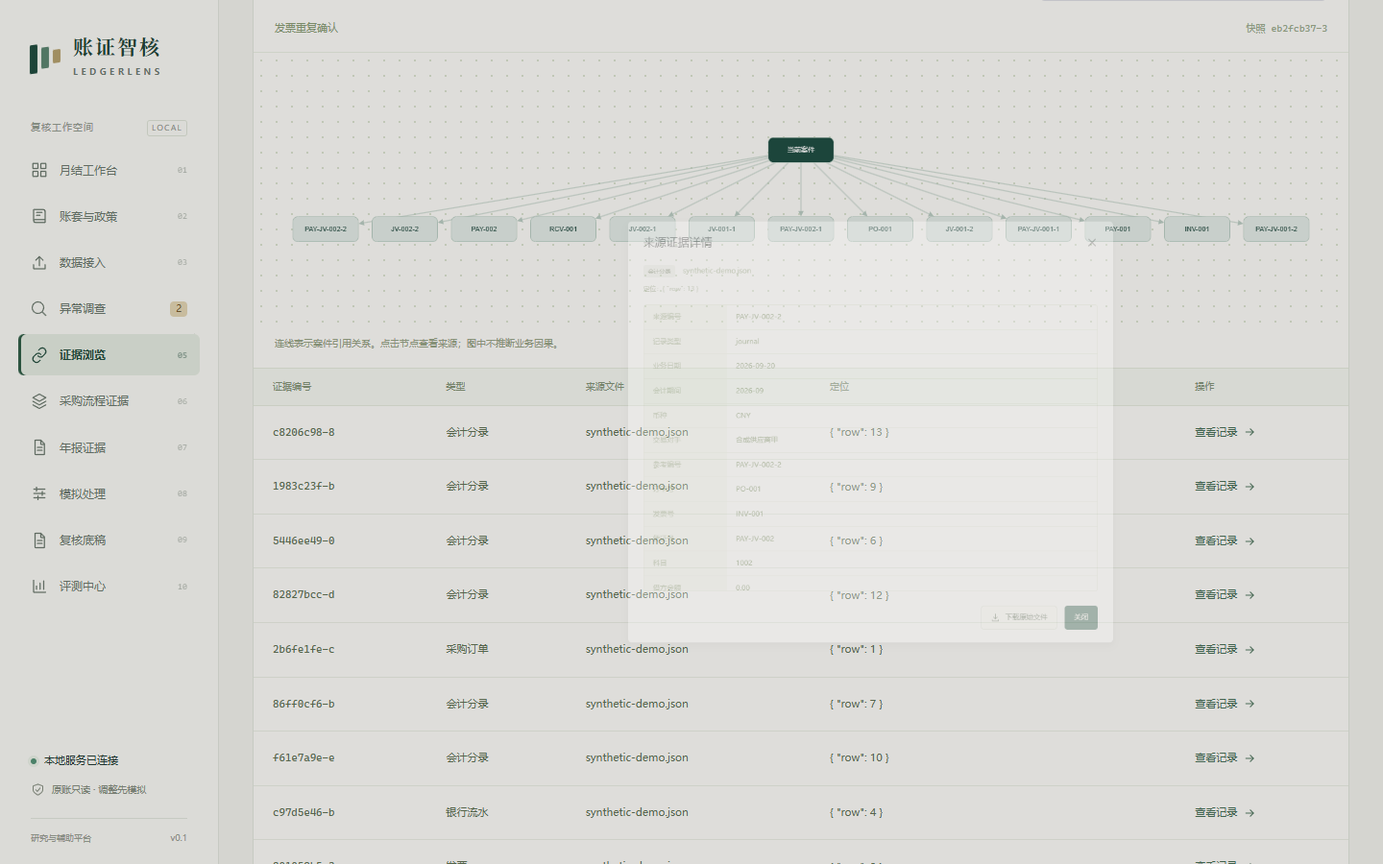
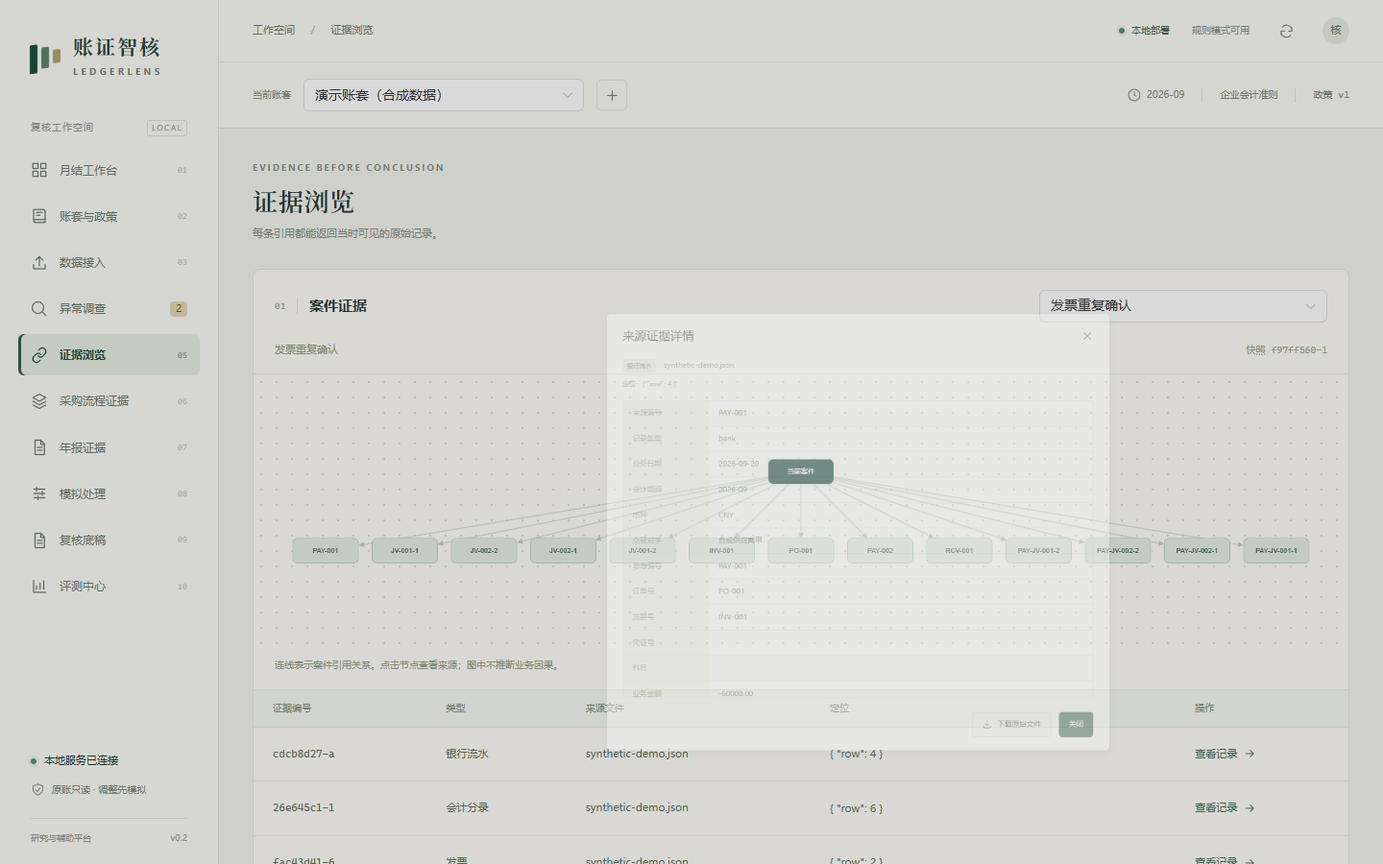
Release v0.2.0: version, demo video and screenshots, introduction and validation summary (#59)
Version 0.2.0 across Python, frontend and citation metadata; the demo recording and narration follow the closed product loop; screenshots refreshed; the introduction reads its numbers from docs/release-v0.2.0-validation.json and docs/scenario-acceptance.json, cites the official texts as checked (plan main line, software specification article 21 items 2 and 3) and separates official requirements from the project's inference; the v4 spend is corrected to about CNY 1.32; the email draft is added.

diff --git a/docs/submission/intro.template.html b/docs/submission/intro.template.html
@@ -53,9 +53,10 @@
 <section>
   <h2>1 项目概述</h2>
   <p>月结复核中，发现异常只是第一步：复核人员还要取得证据、判断原因，并证明拟议的调整不会改坏原始账簿。现有的 AI 财务工具多数直接给出结论，但结论依据了哪些资料、资料是否在当时可见、能否被第三方复核，往往说不清。</p>
-  <p>账证智核把每一次调查固定在<strong>账套、数据快照和规则版本</strong>上：确定性规则先做检查；调查只能读取当前快照中的证据；模型的建议不会自动成为业务事实；调整只进入隔离模拟并由程序逐分复算；迟到的资料会生成新快照并使旧复核失效。项目在本地即可运行，不需要模型密钥就能完成完整的规则演示。</p>
+  <p>账证智核把每一次调查固定在<strong>账套、数据快照和规则版本</strong>上：确定性规则先做检查；调查只能读取当前快照中的证据；模型的建议不会自动成为业务事实；处理草稿由案件发现确定性生成，只进入隔离模拟并由程序逐分复算；迟到的资料生成新快照，旧复核失效，同一发现接续到新案件继续复核。项目在本地即可运行，不需要模型密钥就能完成完整的规则演示。</p>
   <table class="kpi">
-    <tr><th>后端自动化测试</th><td>{{json:policy#full_backend.passed}} 通过 / {{json:policy#full_backend.skipped}} 跳过（{{meta:test_date}}，本机）</td></tr>
+    <tr><th>后端自动化测试</th><td>{{json:release#backend.passed}} 通过 / {{json:release#backend.skipped}} 跳过（{{meta:test_date}}，v{{json:release#version}} 发布提交，本机）</td></tr>
+    <tr><th>首版场景包验收</th><td>资金往来、采购费用、期间账表 × 正常、确定异常、资料不足、冲突或多解：{{json:scenario#passed}}/{{json:scenario#cell_count}} 通过（手写合成账套，从导入走到复核与底稿）</td></tr>
     <tr><th>官方问答政策规则</th><td>33 条有限规则覆盖 32 份财政部实施问答；{{json:policy#official_projection.passed}} 个手写投影全部通过</td></tr>
     <tr><th>公开资料端到端验收</th><td>财政部数电发票样例：API {{json:policy#public_delivery.stages.1.checks}} 项、Chrome {{json:policy#public_delivery.stages.2.stats.expected}} 项全部通过</td></tr>
     <tr><th>运行方式</th><td>Windows、Linux/macOS 脚本与 Docker Compose，三种方式每次提交都在 CI 全新机器上实跑</td></tr>
@@ -76,13 +77,14 @@
   <p>财政部《会计软件基本功能和服务规范》（财会〔2024〕12号，2025年1月1日起施行）对会计软件提出了与本项目设计直接对应的要求：</p>
   <table class="grid">
     <tr><th>条款</th><th>要求（摘要，以原文为准）</th><th>本项目对应设计</th></tr>
-    <tr><td>第二十一条</td><td>提供不可逆的记账功能，不得删除、插入或修改已记账凭证</td><td>原始账簿只读，调整只进隔离模拟</td></tr>
+    <tr><td>第二十一条（二）（三）</td><td>防止电子会计凭证重复入账；提供不可逆的记账功能，不得删除、插入或修改已记账凭证</td><td>重复确认检测与冲回草稿；原始账簿只读，调整只进隔离模拟</td></tr>
     <tr><td>第三十二条</td><td>记录用户操作日志，可按操作人员、时间和内容查询</td><td>审计记录、快照绑定与复核失效</td></tr>
     <tr><td>第六条、第十八条</td><td>遵循电子凭证会计数据标准，解析符合标准的电子会计凭证</td><td>财政部数电发票标准样例的核验导入</td></tr>
     <tr><td>第二十九条、第四十一条</td><td>符合国家统一标准的数据接口，不得拒绝用户导出电子会计资料</td><td>开放 API 与 Markdown/JSON 底稿导出</td></tr>
     <tr><td>第三十八条</td><td>鼓励提供个性化、自动化、智能化核算处理功能</td><td>智能化在可核验的边界内进行</td></tr>
   </table>
-  <p>此外，财政部《会计信息化发展规划（2021－2025年）》把会计数据标准和数字化转型列为主线；国家税务总局公告2024年第11号自2024年12月1日起在全国推广数电发票。电子凭证进入账务后，如何在不改动原账的前提下自动复核、并让结论可追溯，是这些政策落地后的直接需求。</p>
+  <p>此外，财政部《会计信息化发展规划（2021－2025年）》（财会〔2021〕36号）以信息化支撑会计职能拓展为主线、以标准化为基础、以数字化为突破口，目标包括基本建立覆盖输入、处理、输出各环节的会计数据标准体系；国家税务总局公告2024年第11号自2024年12月1日起在全国推广数电发票。电子凭证进入账务后，如何在不改动原账的前提下自动复核、并让结论可追溯，是我们据此作出的需求判断。</p>
+  <p class="source">条款与要求摘自官方原文（会计软件规范按财政部发布的 PDF 逐条核对；数电发票见国家税务总局规范性文件库；规划见国务院政策文件库附件）；“本项目对应设计”一列与上段需求判断属于本项目的推断，不是官方要求。</p>
   <h3>2.3 目标用户与场景</h3>
   <ul>
     <li><strong>会计实训与复核教学（首个可落地场景）</strong>：用财政部公开样例和标注明确的教学变体（如故意加入的重复凭证）组织练习，学生能看到每条结论的证据和失效规则。</li>
@@ -114,20 +116,30 @@
     <figure><img src="{{asset:shot03}}" alt="证据关系图"><figcaption>图 4　证据关系图：记录、单据与规则的关联</figcaption></figure>
   </div>
   <div class="pair">
-    <figure><img src="{{asset:shot05}}" alt="隔离模拟"><figcaption>图 5　隔离模拟：调整草稿由程序逐分复算，原始账簿不变</figcaption></figure>
-    <figure><img src="{{asset:shot07}}" alt="复核失效"><figcaption>图 6　迟到资料生成新快照，旧复核自动失效</figcaption></figure>
+    <figure><img src="{{asset:shot05}}" alt="处理草稿与隔离模拟"><figcaption>图 5　处理草稿：由案件发现生成冲回分录，程序复算后本案发现已消除，原始账簿不变</figcaption></figure>
+    <figure><img src="{{asset:shot07}}" alt="复核失效"><figcaption>图 6　迟到资料生成新快照：旧复核失效，须在最新快照重新检查</figcaption></figure>
   </div>
-  <h3>4.1 七步复核闭环</h3>
+  <figure><img src="{{asset:shot07b}}" alt="接续核对"><figcaption>图 7　重新检查后同一发现接续到新案件；未再出现的缺口生成接续核对案件，不自动认定已解决</figcaption></figure>
+  <h3>4.1 复核闭环</h3>
   <ol>
     <li>建立账套（企业会计准则或小企业会计准则，制度建立后不能原地更换）。</li>
     <li>导入资料：CSV／JSON／XLSX、文本 PDF、财政部数电发票 XML 或扫描件（OCR 结果须人工逐字段核实）；先预览字段和错误，缺失金额不补零。</li>
-    <li>执行月结检查：16 条确定性规则生成案件，每条发现带来源记录和限制说明。</li>
-    <li>证据调查：规则模式不调用模型；模型模式需显式启动，且只能读取当前快照。</li>
-    <li>隔离模拟：输入调整草稿，程序复算余额变化，拦截不平衡、锁定期间与未知科目。</li>
-    <li>复核与底稿：保存复核意见，导出 Markdown／JSON 底稿；可选多用户模式下，调查、复核、审批由不同账户完成。</li>
-    <li>资料更新：迟到资料生成新快照，旧复核失效；历史底稿保留，不能用新资料改写旧判断。</li>
+    <li>执行月结检查：{{json:release#rules.catalog_rules}} 条确定性规则生成案件（导入银行流水后含 {{json:release#rules.funds_rules}} 条资金核对规则），每条发现带来源记录和限制说明。</li>
+    <li>证据调查：规则模式不调用模型；模型模式需显式启动，且只能读取当前快照；调查结论只作参考，不改变处理分录。</li>
+    <li>处理草稿与隔离模拟：能确定的修正直接生成分录，只能确定金额方向的留空必填，无法确定的只列所需资料；程序在副本上复算余额并重新检查，列出本案发现是否消除和新引入的问题。</li>
+    <li>补证与接续：登记补证事项；新资料形成新快照后重新检查，同一发现接续到新案件，未再出现的发现生成接续核对案件，候选资料须人工确认。</li>
+    <li>复核与底稿：选择所依据的模拟方案，冻结当时的未决事项；导出含接续、补证、草稿与对比、未决事项的 Markdown／JSON 底稿；可选多用户模式下调查、复核、审批由不同账户完成。</li>
   </ol>
-  <h3>4.2 政策检查与公开资料闭环</h3>
+  <h3>4.2 首版场景包验收</h3>
+  <p>首版三个场景包各按四种情况各做一份手写合成账套，预期结果先按规则定义写好，再经真实接口从导入走到复核与底稿；任何一步不符即整格失败。</p>
+  <table class="grid">
+    <tr><th></th><th>正常</th><th>确定异常</th><th>资料不足</th><th>冲突或多解</th></tr>
+    <tr><th>资金往来</th><td>合并付款与退款一致：{{json:release#scenario_packs.matrix.funds.normal}}</td><td>手续费未入账，补齐对方科目后消除：{{json:release#scenario_packs.matrix.funds.definite_anomaly}}</td><td>缺银行存款分录，补证后接续复核：{{json:release#scenario_packs.matrix.funds.insufficient}}</td><td>等额多笔无法区分，不自动核销：{{json:release#scenario_packs.matrix.funds.conflicting}}</td></tr>
+    <tr><th>采购费用</th><td>分批收货与分拆发票不判重复：{{json:release#scenario_packs.matrix.purchase.normal}}</td><td>重复确认，冲回草稿消除：{{json:release#scenario_packs.matrix.purchase.definite_anomaly}}</td><td>迟到收货单补齐后接续复核：{{json:release#scenario_packs.matrix.purchase.insufficient}}</td><td>同一发票两份金额冲突，保留意见：{{json:release#scenario_packs.matrix.purchase.conflicting}}</td></tr>
+    <tr><th>期间账表</th><td>期初加发生等于期末：{{json:release#scenario_packs.matrix.period.normal}}</td><td>漏记一行，补录后凭证与试算均衔接：{{json:release#scenario_packs.matrix.period.definite_anomaly}}</td><td>缺期初余额不按零处理：{{json:release#scenario_packs.matrix.period.insufficient}}</td><td>跨期：同年迟到不调账，跨年按制度分路径：{{json:release#scenario_packs.matrix.period.conflicting}}</td></tr>
+  </table>
+  <p class="source">逐步的预期与实际见仓库 docs/scenario-acceptance.json；冲突来源在只读原账中无法作废，只能以补证和保留意见处理。</p>
+  <h3>4.3 政策检查与公开资料闭环</h3>
   <p>政策检查来自 32 份财政部企业会计准则实施问答，编成 33 条有限规则。每条规则记录官方原文链接与哈希、适用与不适用条件；依赖专业判断的条件必须由人工确认并引用当前快照的资料。财政部 2025 推广应用版数电发票标准包中的两份 XML 样例可以一条命令完成采集、核验投影、隔离 API 与浏览器验收和证据哈希汇总；另有标注明确的重复凭证教学变体，用于实训。</p>
 </section>
 
@@ -137,7 +149,7 @@
   <table class="grid">
     <tr><th>创新点</th><th>做法</th><th>证据</th></tr>
     <tr><td>① 快照绑定的证据调查</td><td>每次调查固定账套、资料、规则版本与政策上下文；引用必须属于当前快照且已被读取；迟到资料生成新快照，旧复核失效</td><td>4 个独立时间挑战：保留快照时判断正确 4/4，混入后来资料时只有 2/4；端到端测试覆盖旧复核失效</td></tr>
-    <tr><td>② 模型提议与业务事实分离</td><td>模型只能提出待复核的解释和调整草稿；草稿进入隔离模拟，由程序逐分复算</td><td>6 份草稿（5 份有错）：程序复算拦住 4/5，直接采信建议则 5/5 全部放过；“合法科目间业务用途错误”仍会通过，作为已知缺口公开</td></tr>
+    <tr><td>② 模型提议与业务事实分离</td><td>模型只能提出待复核的解释；处理草稿由案件发现确定性生成，进入隔离模拟，由程序逐分复算并对比前后发现</td><td>6 份草稿（5 份有错）：程序复算拦住 4/5，直接采信建议则 5/5 全部放过；“合法科目间业务用途错误”仍会通过，作为已知缺口公开；场景包验收中 3 格经草稿模拟消除本案发现且未引入新问题</td></tr>
     <tr><td>③ 官方问答驱动的可审计规则包</td><td>32 份财政部实施问答编成 33 条有限规则，记录原文哈希、适用与不适用条件；专业判断一律人工确认</td><td>{{json:policy#official_projection.passed}} 个手写投影全部通过；AI 审阅发现的范围问题逐条整改，旧版失败反例留档</td></tr>
     <tr><td>④ 预注册封存评测</td><td>评测真值不进入运行中的 Agent；封存数据只用一次；与同预算确定性基线对比；付费运行有费用守护</td><td>v2、v3、v4 三次封存测试中单 Agent 均未超过基线（v3：0.508 对 0.563）；v4 混合方法高于单 Agent 但未超过最强基线，结果原样公开（见 5.2）</td></tr>
     <tr><td>⑤ 可离线核验的交付证据</td><td>一条命令完成公开样例采集、隔离 API 与浏览器验收和哈希清单；复制后的验收包可只用标准库核验</td><td>验收前后核对 {{json:policy#public_delivery.stages.3.sources}} 份源码与配置、{{json:policy#public_delivery.stages.3.evidence}} 份证据；篡改副本被拒绝</td></tr>
@@ -153,7 +165,7 @@
     <tr><td>确定性优先混合</td><td>{{json:v4#metrics.hybrid.category_macro_f1}}</td><td>{{json:v4#metrics.hybrid.conclusion_accuracy}}</td><td>{{json:v4#metrics.hybrid.failures}}/{{json:v4#metrics.hybrid.samples}}</td><td>{{json:v4#usage.hybrid.paid_requests_per_sample}}</td></tr>
     <tr><td>单 Agent</td><td>{{json:v4#metrics.single.category_macro_f1}}</td><td>{{json:v4#metrics.single.conclusion_accuracy}}</td><td>{{json:v4#metrics.single.failures}}/{{json:v4#metrics.single.samples}}</td><td>{{json:v4#usage.single.paid_requests_per_sample}}</td></tr>
   </table>
-  <p><strong>结论：预注册假设未获支持。</strong>混合方法与最强基线的宏 F1 差值，自助区间为 {{json:v4#bootstrap.macro_f1_difference.hybrid-keyword_request.lower}} 至 {{json:v4#bootstrap.macro_f1_difference.hybrid-keyword_request.upper}}，T1、T2 未达成。它明显好于单 Agent（差值区间 {{json:v4#bootstrap.macro_f1_difference.hybrid-single.lower}} 至 {{json:v4#bootstrap.macro_f1_difference.hybrid-single.upper}}），付费请求不到单 Agent 的一半，T3–T5 达成。事后核对发现，入选的 3 个文字线索案例恰好都含关键词；关键词基线在完整 90 例封存集上为 0.848。这只是事后描述，不改变结论。按预注册，混合方法不进入产品。两批实际花费约 ¥1.20。</p>
+  <p><strong>结论：预注册假设未获支持。</strong>混合方法与最强基线的宏 F1 差值，自助区间为 {{json:v4#bootstrap.macro_f1_difference.hybrid-keyword_request.lower}} 至 {{json:v4#bootstrap.macro_f1_difference.hybrid-keyword_request.upper}}，T1、T2 未达成。它明显好于单 Agent（差值区间 {{json:v4#bootstrap.macro_f1_difference.hybrid-single.lower}} 至 {{json:v4#bootstrap.macro_f1_difference.hybrid-single.upper}}），付费请求不到单 Agent 的一半，T3–T5 达成。事后核对发现，入选的 3 个文字线索案例恰好都含关键词；关键词基线在完整 90 例封存集上为 0.848。这只是事后描述，不改变结论。按预注册，混合方法不进入产品。两批实际花费约 ¥1.32。</p>
   <h3>5.3 与同类方案的比较</h3>
   <table class="grid compare">
     <tr><th></th><th>通用大模型对话</th><th>商业智能财务（用友 BIP、金蝶、BlackLine 等）</th><th>开源 ERP／记账（ERPNext、Odoo、Beancount）</th><th>账证智核</th></tr>
@@ -173,7 +185,9 @@
   <h3>6.2 可测试</h3>
   <table class="grid">
     <tr><th>项目</th><th>结果</th></tr>
-    <tr><td>后端自动化测试</td><td>{{json:policy#full_backend.passed}} 通过 / {{json:policy#full_backend.skipped}} 跳过（{{meta:test_date}}，本机；跳过项为 Windows 链接权限与可选服务条件）</td></tr>
+    <tr><td>后端自动化测试</td><td>{{json:release#backend.passed}} 通过 / {{json:release#backend.skipped}} 跳过（{{meta:test_date}}，发布提交，本机；跳过项为 Windows 链接权限与可选服务条件）；每次提交另在 CI 的 Linux 与 Windows 上全量运行</td></tr>
+    <tr><td>浏览器端到端</td><td>{{json:release#browser.passed}} 通过 / {{json:release#browser.skipped}} 跳过（隔离空库、无模型密钥；跳过项为需要可选数据集或多用户服务的用例）</td></tr>
+    <tr><td>首版场景包</td><td>{{json:scenario#passed}}/{{json:scenario#cell_count}} 格通过，见 4.2</td></tr>
     <tr><td>规则基准</td><td>480 个合成案例、30 个独立参考例全部通过，CI 每次重新生成数据并强制该契约</td></tr>
     <tr><td>政策规则</td><td>{{json:policy#official_projection.passed}} 个手写投影通过，{{json:policy#official_projection.source_verification.passed}} 份归档官方原文核验通过</td></tr>
     <tr><td>公开样例端到端</td><td>API {{json:policy#public_delivery.stages.1.checks}} 项、Chrome {{json:policy#public_delivery.stages.2.stats.expected}} 项全部通过，0 跳过</td></tr>
@@ -192,6 +206,7 @@
     <li>尚未在企业真实账套上试点；需要授权与脱敏流程，列为 v1.0 目标。</li>
     <li>会计专业人员的独立复核尚未取得：47 项完整材料和 12 项短版已备好；AI 审阅不等于专业意见。</li>
     <li>中文真实票据的 OCR 尚未实测；macOS 没有 CI 覆盖。</li>
+    <li>处理草稿只覆盖能由快照确定的修正；模型建议与模拟复核的闭环效果评测尚未进行，模型增益仍未证明。</li>
   </ul>
 </section>
 <section>

diff --git a/frontend/src/App.vue b/frontend/src/App.vue
@@ -113,7 +113,7 @@ onBeforeUnmount(()=>{window.removeEventListener('ledgerlens:unauthorized',sessio
    <a class="brand" href="#" @click.prevent="go('dashboard')"><span class="brand-mark"><i></i><i></i><i></i></span><span><strong>账证智核</strong><small>LEDGERLENS</small></span></a>
    <div class="workspace-label">复核工作空间 <span>LOCAL</span></div>
    <nav aria-label="主导航"><button v-for="(p,index) in pages" :key="p.id" :aria-label="p.label" :class="['nav-item',{active:page===p.id}]" @click="go(p.id)"><Icon :name="p.icon" :size="18"/><span>{{ p.label }}</span><span v-if="p.id==='cases'&&openCount" class="nav-count">{{ openCount }}</span><span v-else class="nav-index">{{ String(index+1).padStart(2,'0') }}</span></button></nav>
-   <div class="sidebar-footer"><div class="local-status"><span :class="['status-dot',{offline:!health}]"/>{{ health?'本地服务已连接':'等待本地服务' }}</div><div class="sidebar-note"><Icon name="shield" :size="15"/><span>原账只读 · 调整先模拟</span></div><div class="version">研究与辅助平台 <span>v0.1</span></div></div>
+   <div class="sidebar-footer"><div class="local-status"><span :class="['status-dot',{offline:!health}]"/>{{ health?'本地服务已连接':'等待本地服务' }}</div><div class="sidebar-note"><Icon name="shield" :size="15"/><span>原账只读 · 调整先模拟</span></div><div class="version">研究与辅助平台 <span>v0.2</span></div></div>
   </aside>
   <div v-if="mobileNav" class="nav-backdrop" @click="mobileNav=false"/>
   <main>

diff --git a/scripts/summarize_release.py b/scripts/summarize_release.py
@@ -1,0 +1,91 @@
+"""Summarize the validation runs of one release commit into a single JSON (Apache-2.0).
+
+Inputs are the raw outputs of runs made on that commit: a pytest JUnit XML file,
+a Playwright JSON report and the scenario-pack report, plus an optional GitHub
+Actions run whose job conclusions are read with the gh CLI. Counts are copied
+from those files, never typed in; a missing or failing input is reported as such.
+The output path must not exist yet.
+
+    python scripts/summarize_release.py --junit <pytest.xml> --playwright <browser.json> \
+        --scenario docs/scenario-acceptance.json [--ci-run <id>] --output docs/release-vX.Y.Z-validation.json
+"""
+import argparse
+from datetime import datetime, timezone
+import json
+from pathlib import Path
+import subprocess
+import sys
+import tomllib
+import xml.etree.ElementTree as ET
+
+ROOT = Path(__file__).resolve().parents[1]
+sys.path[:0] = [str(ROOT / 'backend'), str(ROOT)]
+
+
+def git(*args):
+    return subprocess.run(['git', *args], cwd=ROOT, capture_output=True, text=True, check=True).stdout.strip()
+
+
+def junit(path: Path) -> dict:
+    root = ET.parse(path).getroot()
+    suites = [root] if root.tag == 'testsuite' else list(root.iter('testsuite'))
+    total = {key: sum(int(s.get(key, 0)) for s in suites) for key in ('tests', 'failures', 'errors', 'skipped')}
+    total['passed'] = total['tests'] - total['failures'] - total['errors'] - total['skipped']
+    return {**total, 'seconds': round(sum(float(s.get('time', 0)) for s in suites), 1), 'source': path.name}
+
+
+def playwright(path: Path) -> dict:
+    stats = json.loads(path.read_text(encoding='utf-8'))['stats']
+    return {'passed': stats['expected'], 'skipped': stats['skipped'], 'failed': stats['unexpected'],
+            'flaky': stats['flaky'], 'source': path.name}
+
+
+def ci_run(run_id: str) -> dict:
+    data = json.loads(subprocess.run(['gh', 'run', 'view', run_id, '--json', 'conclusion,headSha,jobs,url'],
+                                     cwd=ROOT, capture_output=True, text=True, check=True).stdout)
+    return {'run_id': run_id, 'url': data['url'], 'head_sha': data['headSha'], 'conclusion': data['conclusion'],
+            'jobs': {job['name']: job['conclusion'] for job in data['jobs']}}
+
+
+def main():
+    parser = argparse.ArgumentParser(description=__doc__.splitlines()[0])
+    parser.add_argument('--junit', type=Path, required=True)
+    parser.add_argument('--playwright', type=Path, required=True)
+    parser.add_argument('--scenario', type=Path, required=True)
+    parser.add_argument('--ci-run')
+    parser.add_argument('--output', type=Path, required=True)
+    args = parser.parse_args()
+    if args.output.exists():
+        raise SystemExit(f'Refusing to overwrite {args.output}')
+    from app.domain import SCENARIO_RULES, rule_catalog, rule_identity
+    from app.treatment import treatment_identity
+    scenario = json.loads(args.scenario.read_text(encoding='utf-8'))
+    label = {True: '通过', False: '未通过'}
+    backend, browser = junit(args.junit), playwright(args.playwright)
+    summary = {
+        'schema_version': 'release-validation-v1',
+        'version': tomllib.loads((ROOT / 'pyproject.toml').read_text(encoding='utf-8'))['project']['version'],
+        'generated_at': datetime.now(timezone.utc).isoformat(), 'commit': git('rev-parse', 'HEAD'),
+        'working_tree_clean': git('status', '--porcelain') == '',
+        'backend': backend, 'browser': browser,
+        'scenario_packs': {'passed': scenario['passed'], 'cell_count': scenario['cell_count'],
+                           'failed': scenario['failed'], 'report_commit': scenario['commit'],
+                           'matrix': {pack: {condition: label[ok] for condition, ok in row.items()}
+                                      for pack, row in scenario['matrix'].items()}},
+        'rules': {'execution_rules': rule_identity(), 'catalog_rules': len({r['rule_id'] for r in rule_catalog()}),
+                  'funds_rules': len(SCENARIO_RULES['funds'])},
+        'treatment': treatment_identity(),
+        'ci': ci_run(args.ci_run) if args.ci_run else None,
+        'all_passed': (backend['failures'] == backend['errors'] == 0 and browser['failed'] == 0
+                       and not scenario['failed']),
+        'scope': '本机与 CI 在该提交上的实测汇总；场景包为手写合成账套的流程验收，不代表真实企业效果或模型增益。',
+    }
+    args.output.parent.mkdir(parents=True, exist_ok=True)
+    with args.output.open('x', encoding='utf-8', newline='\n') as handle:
+        handle.write(json.dumps(summary, ensure_ascii=False, indent=2) + '\n')
+    print(json.dumps({k: summary[k] for k in ('version', 'commit', 'all_passed')}, ensure_ascii=False))
+    return 0 if summary['all_passed'] else 1
+
+
+if __name__ == '__main__':
+    raise SystemExit(main())

diff --git a/scripts/build_submission_pdf.py b/scripts/build_submission_pdf.py
@@ -25,11 +25,12 @@ ROOT = Path(__file__).resolve().parents[1]
 TEMPLATE = ROOT / 'docs/submission/intro.template.html'
 META = ROOT / 'docs/submission/meta.json'
 SOURCES = {'policy': 'docs/policy-v9-validation.json', 'audit': 'docs/publication-audit.json',
-           'rootcause': 'docs/root-cause-results.json', 'v4': 'docs/root-cause-v4-sealed-analysis.json'}
+           'rootcause': 'docs/root-cause-results.json', 'v4': 'docs/root-cause-v4-sealed-analysis.json',
+           'release': 'docs/release-v0.2.0-validation.json', 'scenario': 'docs/scenario-acceptance.json'}
 ASSETS = {'architecture': 'docs/images/architecture.svg', **{
     f'shot{n:02d}': f'docs/images/{name}.png' for n, name in enumerate(
         ['01-workbench', '02-investigation', '03-evidence', '04-source-record', '05-simulation', '06-review',
-         '07-review-invalidated', '08-policy', '09-evaluation'], 1)}}
+         '07-review-invalidated', '08-policy', '09-evaluation'], 1)}, 'shot07b': 'docs/images/07b-continuation.png'}
 PLACEHOLDER = re.compile(r'\{\{(json|meta|link|asset|lic|gh):([^}]+)\}\}')
 REPO = 'longtiandragon/ledgerlens'
 

diff --git a/backend/app/main.py b/backend/app/main.py
@@ -92,7 +92,7 @@ async def lifespan(app):
             task.cancel()
 
 
-app = FastAPI(title='账证智核 LedgerLens', version='0.1.0', lifespan=lifespan,
+app = FastAPI(title='账证智核 LedgerLens', version='0.2.0', lifespan=lifespan,
               description='本地会计复核研究与辅助平台；原账只读，调整仅限模拟。')
 app.include_router(process_router)
 app.include_router(numeric_evaluation_router)

diff --git a/CHANGELOG.md b/CHANGELOG.md
@@ -1,6 +1,10 @@
 # 变更记录
 
-## 未发布 — 2026-10-24
+## 0.2.0 — 2026-10-24
+
+首个公开资料版本：按原 PRD 闭合产品流程（处理草稿、隔离模拟前后对比、补证与新快照接续、复核冻结未决事项、完整底稿），资金核对进入月结案件（执行规则 0.2.0），三个场景包各四种情况验收 12/12；公开仓库治理、跨平台启动与 9 项 CI。原因调查 v2–v5 均未证明模型增益，结果原样保留。以下按日期列出 0.1.0 之后的改动。
+
+### 2026-10-24
 
 - 产品流程闭环：案件可生成确定性的处理草稿（能确定的出分录，只能确定金额方向的留空必填字段，无法确定的列出所需资料）；模拟时服务端重算并比对草稿，记录分录来源、人工补齐与改动；每次模拟列出本案发现是否消除及已消除、仍存在、新引入的问题。
 - 案件接续：新快照的检查把同一规则且共享来源记录的发现接续到旧案件；上次发现未再出现时生成“接续核对”案件，在新快照上复核，不自动认定已解决。
@@ -8,28 +12,28 @@
 - 执行规则 0.2.0：快照含银行流水时，资金核对结果进入月结案件；资金匹配中由两个不相交候选合并而成的组合候选不再算作另一种解释，等额无法区分的配对仍为多解。规则目录补列 7 条资金规则。数据库迁移 0008（接续表、模拟来源、复核冻结字段，只新增）。
 - 首版三个场景包各四种情况的验收矩阵 12/12 通过，见 [场景包验收](docs/SCENARIO_ACCEPTANCE.md)；新增 3 条浏览器用例覆盖草稿模拟与复核、补证接续、资金差异补齐。模型建议仍不转成草稿，模型闭环评测未做。
 
-## 未发布 — 2026-10-22
+### 2026-10-22
 
 - 新增 [AI 模拟首次使用试用记录](docs/AI_FIRST_USE_TRIAL.md)（不是真人试用），以及可重复运行的走查脚本 `scripts/first_use_walkthrough.cjs` 和试用用凭证 `docs/trial/judge-voucher-export.csv`。
 - 补证面板在本案调查开始或结束后自动重新读取，调查提出的待补资料无需刷新页面即可显示。这也是 CI 中 `evidence-requests` 用例偶发失败（#33）的根因：页面先读面板、调查后完成。新增用例在修复前失败、修复后通过，原用例连续 8 次通过。
 - 首次使用细节（来自 AI 模拟评委试用）：切换页面回到顶部，原先会停在上一页的滚动位置；复核意见与调查记录的时间标明 UTC，原先显示原始 ISO 串或不带时区；README“五分钟上手”补上克隆命令、前置环境、首次安装耗时，以及演示中每一步在哪个页面。
 - 导入普通凭证导出：识别常见中文表头（借方金额、科目编码、摘要、凭证日期等）；按凭证格式推导记录类型、会计期间（凭证日期所在月）、来源编号（文件名＋行号）和一侧空白的借贷金额（按 0），推导值写入来源定位并在预览中逐项标出；校验错误改为中文并指出字段。起因是 AI 模拟评委试用：一份常见格式的凭证 CSV 原先得到“0 条记录 / 36 项错误”。
-- 原因调查 v4 封存运行（预注册 #12）：“确定性优先、模型兜底”混合方法宏 F1 0.913，高于单 Agent 0.544，每样本请求 2.0 次（单 Agent 4.33 次）；但低于本次最强同预算基线关键词补证 1.000，T1、T2 未达成，假设未获支持，不做产品化。两批实际约 ¥1.20。分析全文 `docs/root-cause-v4-sealed-analysis.json`。
+- 原因调查 v4 封存运行（预注册 #12）：“确定性优先、模型兜底”混合方法宏 F1 0.913，高于单 Agent 0.544，每样本请求 2.0 次（单 Agent 4.33 次）；但低于本次最强同预算基线关键词补证 1.000，T1、T2 未达成，假设未获支持，不做产品化。两批实际约 ¥1.32（2026-10-24 按 v5 预检余额 ¥30.16 更正；原记 ¥1.20 是扣费未全部入账时的读数）。分析全文 `docs/root-cause-v4-sealed-analysis.json`。
 - 评测中心把同一代已完成的封存批次合并展示（v4：hybrid 与单 Agent），新增“确定性优先混合”名称；介绍文档 5.2 与视频旁白改为实际结果；README 不再把混合方法列为产品功能。
 
-## 未发布 — 2026-10-20
+### 2026-10-20
 
 - 政策包`policy-consistency-v9`：运输履约成本只核对人工确认“随相关收入确认摊销进入本期损益”的列示；简化租赁现金流先排除同笔已确认租赁负债的本金和利息，混合付款要求拆分。Astra AI审阅发现的两项P2经限定复核关闭；新增23项独立边界测试，旧版4个反例的失败实跑留档；191项开发投影原预期标签未改。
 - 公开验收入口v2：8份政策下载底稿和1份截图纳入22份证据，运行前后核对372份源码与配置；新增`scripts/verify_public_delivery.py`标准库离线核验，88项专项通过，篡改副本被拒绝。
 - 本机完整后端2450通过／25跳过，公开API45项、Chrome24项全部通过；未重装依赖，未跑远端CI。交接文档新增比赛提交差距与截止前计划（第0节）。
 
-## 未发布 — 2026-10-15
+### 2026-10-15
 
 - 政策包`policy-consistency-v8`：专门借款利息规则只对人工确认、直接归属该设备的利息执行，辅助费用等退出本规则；Astra复核关闭该P2，新增21项边界回归。
 - 新增4项借款范围真实网页流程，公开验收入口要求至少20项网页全部通过。
 - v8新目录复现：封存473份源码离线重装，后端2364通过／53跳过，空库网页43通过／11跳过，公开样例API45项、网页16项全部通过。
 
-## 未发布 — 2026-10-14
+### 2026-10-14
 
 - 按公开资料范围交付：财政部2025数电发票标准包两份XML实例建账，并另做标注明确的重复凭证教学变体；上传时服务器核验原件与投影，拒绝篡改和改变含义的字段映射，自动保留教学标记。API闭环45/45、Chrome16/16。
 - AI会计审阅整改：租赁边界升级`policy-consistency-v6`（购买选择权、低价值资格、总租赁期），随后借款费用边界升级v7（暂停情形、观察期单一阶段）；仍为33条有限规则，191/191投影通过。AI审阅不等于会计师签字。
@@ -49,14 +53,14 @@
 - 专家查询BGE对比（文档级前6 11/11对关键词10/11，条款级3/5对4/5，无可靠差异）；CORD真实收据OCR暴露空文字框整张拒绝缺陷（v1 40/100失败），改为记录未识别区域并在复核页提示，v2失败0/100。
 - v3封存集：单Agent×3与三种基线完整运行，单Agent原因F1 0.508、结论70.4%、0/27结构失败，未超过同预算最强基线0.563／77.8%，三项预注册目标均未达成。主动调查与固定多Agent运行在8/18、6/9样本时被内存回收终止，新增`benchmarks/root_cause_v3_partial.py`只作描述（记录在案的偏离）；评测中心摘要与浏览器断言更新。当日付费实际¥6.79。
 
-## 未发布 — 2026-10-13
+### 2026-10-13
 
 - 本地扫描PDF逐页OCR：原PDF与渲染像素双重哈希、旋转裁剪坐标、整文档资源预检和单页失败保留；6页合成实跑字串23/24、整行28/35，仍为未确认观察。
 - ERPNext外币账户／CNY本位币、多公司隔离、库存21项真实合成单据差分；采购订单→部分收货→发票→部分付款另21项通过，重复执行单据／总账／库存一致。
 - 固定预期、Decimal传输、原始子行引用与独立ERP试算平衡表交叉验证；保留第三方字符串类型错误及发票日期被覆盖导致的失败账套和报告，不改写已提交原件。
 - 新增19项ERP语义与报告篡改回归，连同原适配器等共44项定向通过。USD本位币及税费／退货／汇兑等仍不在已验证范围。
 
-## 未发布 — 2026-10-12
+### 2026-10-12
 
 - 6份正式原文、相同156片段的关键词与本地固定BGE／实际pgvector比较；20条手写查询，前6命中16/18对15/18，保留向量劣势及无答案仍返回结果的问题，不切换产品默认检索。
 - 固定权重PaddleOCR合成扫描图离线验证、原图坐标与未确认观察、不可直接入账边界；6图23/24字串恢复，混淆错误保留。
@@ -67,7 +71,7 @@
 - 本地OpenTelemetry运行耗时、累计用量与Decimal费用估计，不上传账务或模型文本；未知费用不补零，恢复运行不重复累计费用。
 - 后端1800项通过、2项Windows链接权限跳过；浏览器40项通过，前端构建与生成契约检查通过。上述工程结果不证明模型分类提升。
 
-## 未发布 — 2026-10-11
+### 2026-10-11
 
 - 完成已保存政策检查接入调查：冻结上下文拒绝公开日期晚于捕获或资料截止时刻的来源；修正测试调用签名与替身，未改预期。
 - BPI2019独立流程观察规则包`bpi2019-process-rules-v1`（9条实验性规则）、只读接口、结论筛选、可回查JSON／Markdown底稿及页面。

diff --git a/docs/HANDOFF.md b/docs/HANDOFF.md
@@ -1,5 +1,7 @@
 # 交接文档
 
+> 最新接续（2026-10-24，发布后）：v0.2.0 由 release/v0.2.0 准备，发布提交验证见[发布验证摘要](release-v0.2.0-validation.json)。成片在本机 `.local/demo/video-v5/`（含 SRT 字幕，`report.json` 记哈希），介绍 PDF 由 `scripts/build_submission_pdf.py` 生成；拿到视频链接后：改 `docs/submission/meta.json` 的 `link.video`，重建 PDF，并用 `gh release upload v0.2.0 --clobber` 替换 Release 附件。邮件草稿 `docs/submission/email.md`。依赖升级 PR #47–#50 未处理（opencv 4.10→4.14 需单独验证 OCR）。
+
 > 最新接续（2026-10-24）：用户确认完成标准是原 PRD 的产品流程闭环，而不是只整理提交材料；本周只由 Claude 开发，研究实验暂停，邮件改为 10-30 发出。已在 `feature/treatment-drafts` 补齐：处理草稿、模拟前后发现对比、案件接续与接续核对案件、复核冻结未决事项、底稿完整导出、资金核对进入月结案件（规则 0.2.0）、迁移 0008，以及三个场景包×四种情况 12/12 验收（[说明](SCENARIO_ACCEPTANCE.md)）。Codex 留下的本地分支 `codex/ai-retrieval-gain`（FinDER 检索负面结果，未推送）未合并，处理前先问用户。其后：重录演示视频（界面已变）、介绍 PDF 定稿、发布 v0.2.0、终检。
 
 > 最新接续（2026-10-23，远端验收后）：[PR #57](https://github.com/longtiandragon/ledgerlens/pull/57) 已推送，提交 `2d42f97` 的[CI 9/9通过](https://github.com/longtiandragon/ledgerlens/actions/runs/39823414917)，四份跨主机／中断／有限负载报告已保存在[证据摘要](cross-host-restore-validation.json)。Linux与Windows后端各2649通过／39跳过，可选任务68/68；本地最新参考/OCR为8/8。学生公开资料首版的本轮工程整改可交付，PR仍为草稿、未合并。后续研究另开新计划：AI增益未证明，v5失败冒烟不得自动重跑或挪用封存预算；企业账套和真人会计签字属于未来验证。下面“未推送”等描述只代表当时状态，不得据此重做任务。
@@ -96,7 +98,7 @@
 |2.3 截图|完成：9 张，由 `scripts/capture_demo.py` 在隔离环境生成|#39、#42|
 |2.6 AI 模拟首次使用试用|完成（2026-10-22）：演示流程走通，自制凭证导入失败，经 #52–#54 修复后从新的克隆复测通过；见 docs/AI_FIRST_USE_TRIAL.md。复测命令为 `node scripts/first_use_walkthrough.cjs <ui_url>`，须在隔离或全新实例上运行|#52、#53、#54|
 |2.5 短版专业复核材料|完成（12 项）；**待用户转发给老师**|#35|
-|1a 混合方法|预注册（#12、ROOT_CAUSE_V4）→开发冒烟通过（17 次请求，实际 ¥0.13，0 结构失败）→两份封存计划已冻结→**封存运行完成（2026-10-22 00:26–00:48）**。结果为负：hybrid 0.913，低于关键词补证 1.000（T1、T2 未达成），高于单 Agent 0.544（T3–T5 达成），不做产品化。实际花费约 ¥1.20，v4 合计 ¥1.33|#11、#38、本 PR|
+|1a 混合方法|预注册（#12、ROOT_CAUSE_V4）→开发冒烟通过（17 次请求，实际 ¥0.13，0 结构失败）→两份封存计划已冻结→**封存运行完成（2026-10-22 00:26–00:48）**。结果为负：hybrid 0.913，低于关键词补证 1.000（T1、T2 未达成），高于单 Agent 0.544（T3–T5 达成），不做产品化。实际花费约 ¥1.32，v4 合计约 ¥1.45（10-24 按 v5 预检余额 ¥30.16 更正，原记 ¥1.20／¥1.33）|#11、#38、本 PR|
 |1b 架构图、需求论证、同类对比|架构图完成；官方来源与同类资料已检索并写入介绍文档草稿|#42、材料 PR|
 |5 介绍 PDF、演示视频|PDF 草稿 12 页、视频初版 3 分 40 秒（离线合成旁白，用户决定正式版也用合成语音并注明）；封存结果已写入模板与旁白，待重建定稿|#44|
 
@@ -128,7 +130,7 @@
 |本地旧库升级|启动器执行结构核验、自动备份和向前迁移；无版本旧库仅接管完整匹配的冻结结构。30项专项及隔离启动器实跑通过，原工作库仅做副本演练，见LOCAL_DATABASE_UPGRADE|
 |本地备份恢复|v2逐文件哈希与检查点清单，复制前后核验；32项专项通过，实际副本3257行业务数据和4179行检查点保持，199快照/26OCR/117参考上下文重验通过，见BACKUP_RESTORE。另建合成库两个规则调查进程中断点恢复、预算保持及重复派发通过，见RESTORED_RUN；非空白机器完整灾难恢复。Compose PostgreSQL用`scripts/postgres_backup.py`停写备份／新STORAGE_ROOT恢复，恢复栈API视图一致、容器验收20/20，见BACKUP_RESTORE末节|
 |测试|远端CI（10-20起每个PR与main）共8项作业：Linux后端全量、可选依赖、许可门控、前端构建、quickstart-unix、quickstart-windows（含Windows后端全量，最近一次2527通过/39跳过）、docker、reproduce（浏览器端到端，偶发超时见#33）。最新本机（2026-10-20）：后端2450通过/25跳过，公开API45项、Chrome24项全部通过，验收门控56项、191政策投影通过，见policy-v9-validation.json。最近一次同机新目录重装是10-15的v8：后端2364通过/53跳过，空库网页43通过/11跳过，见public-checkout-v3-validation.json。最近远端CI：提交c9ac746的GitHub CI（全新ubuntu-24.04）后端2208通过/38可选跳过，480/30规则契约与空库网页42通过/10可选跳过（含原因调查评测面板），多用户签署浏览器流程1通过，optional作业68项0跳过；本机后端全量2221通过/25可选或本机条件跳过（191.6秒）。以下为历史记录：提交ce7caf2干净源码基础环境2131通过、52项可选/本机条件跳过；网页42通过、9项可选场景跳过，见CLEAN_CHECKOUT。此前启用实际PG/本机模型资料的后端全量2017通过、2项Windows文件链接权限跳过（144.31秒）；浏览器48通过、0跳过（4.4分钟），两种环境范围不同，不互相替代。GitHub CI（全新ubuntu-24.04）后端2170通过/38可选跳过、480/30规则契约及空库网页42通过/9可选跳过；optional作业以pgvector服务和固定Beancount执行默认作业跳过的31项（所在3个文件共68项全部执行、0跳过），见github-ci-validation.json及github-ci-optional-validation.json|
-|DeepSeek 余额|¥30.28（2026-10-22 00:49只读查询：赠送¥25.14＋自充¥5.14，扣费先从赠送余额走）；v4开发冒烟¥0.13、封存两批约¥1.20；配置模型 `deepseek-flash`。历史：10-14 17:05为¥5.14，较06:41少¥0.65，差额不能直接归为事故账单|
+|DeepSeek 余额|¥30.28（2026-10-22 00:49只读查询：赠送¥25.14＋自充¥5.14，扣费先从赠送余额走）；v4开发冒烟¥0.13、封存两批约¥1.32（10-24 更正，原记¥1.20）；配置模型 `deepseek-flash`。历史：10-14 17:05为¥5.14，较06:41少¥0.65，差额不能直接归为事故账单|
 
 ### 近期接续记录（倒序）
 

diff --git a/docs/STATUS.md b/docs/STATUS.md
@@ -1,5 +1,7 @@
 # 交付状态与验证记录
 
+> 2026-10-24 发布 v0.2.0：#58 合入 main（CI 9/9）后，在发布提交 `87897ad` 上重新验证：后端全量 2730 通过／25 跳过、隔离空库浏览器 59 通过／13 跳过、场景包 12/12，见[发布验证摘要](release-v0.2.0-validation.json)。演示视频按新流程重录（处理草稿模拟、复核冻结未决事项、补证后重新检查与接续核对、首版验收卡片），旁白为离线合成语音，0 次模型请求；README 与介绍截图同步重拍。介绍文档政策依据逐条核对官方原文：更正《会计信息化发展规划》“主线”表述，第二十一条补引（二）防止重复入账，并区分官方要求与本项目推断。v4 实际花费更正为约 ¥1.32（合计约 ¥1.45）。待用户：上传视频并提供链接（随后补入介绍 PDF 与 Release 附件）、补齐邮件中的单位与成员信息、10-30 发出。
+
 > 2026-10-24 产品流程闭环（分支 `feature/treatment-drafts`）：按原 PRD 补齐模块之间的连接。案件生成确定性处理草稿，模拟时服务端重算比对并记录来源、人工补齐与改动，列出本案发现是否消除及新引入问题；新快照检查接续同一发现，未再出现的发现生成“接续核对”案件；复核冻结所依据的模拟方案和未决事项；底稿导出接续、补证、草稿、对比和未决事项。执行规则升至 0.2.0（资金核对结果进入月结案件，组合候选不算多解），迁移 0008 只新增。三个场景包×四种情况验收 12/12（手写合成账套，无模型调用），见[场景包验收](SCENARIO_ACCEPTANCE.md)。本机：后端全量 2730 通过／25 跳过（跳过原因同前：Windows 符号链接与可选 pgvector／PostgreSQL），Ruff 与契约检查通过；隔离空库浏览器 59 通过／13 跳过（原有 56 加新增 3 条）。模型建议不转成草稿，模型闭环评测未做，AI 增益仍未证明。
 
 > 2026-10-24 最终外部核验：SIBR全部400张已完成并逐案复算，6张超过像素上限；29135个标注段中，文字及位置严格恢复11155（38.29%），仅文字整段恢复12005（41.20%）。两次中断的原报告和预测均保留，最终为三进程接续，不是连续实跑。FinRCA439案、FinLongEval80题和SIBR400张的证据一致性核验全部通过；这不等于AI增益或能力达标。[完整结果与局限](EXTERNAL_EVIDENCE_20261023.md)。下方“尚在运行”为历史进度。
@@ -18,7 +20,7 @@
 
 > 2026-10-22 凌晨：AI 模拟首次使用试用（[记录](AI_FIRST_USE_TRIAL.md)，不是真人试用）。从全新克隆只照 README 操作，演示流程全部走通；但一份常见格式的自制凭证 CSV 导入失败，得到 0 条记录、36 项错误。经 #52（中文表头与推导字段，推导值在预览中逐项标明）、#53（换页回顶部、时间标 UTC、README 前置条件）、#54（补证面板随调查刷新，并修掉 #33 中 evidence-requests 偶发失败的根因）修复后，从新的克隆复测，走查脚本 10 步通过，页面错误 0。走查固化为 `scripts/first_use_walkthrough.cjs` 与 CI 用例 `first-use-own-data.spec.ts`。
 
-> 2026-10-22 00:26–00:48（北京时间，周四凌晨低谷）：按冻结计划完成 v4 封存运行（[#12](https://github.com/longtiandragon/ledgerlens/issues/12)）。运行前核对：服务器时间、`deepseek-flash`、两份计划 `--verify`、余额 ¥31.48，已关闭防回收。两批顺序执行，均未中断、未被守护终止。hybrid 批（含三种基线）54 次请求，守护估算 ¥0.414（上限 ¥0.85）；single 批 117 次，¥1.048（上限 ¥2.00）。运行后余额 ¥30.28：两批实际约 ¥1.20，全部从赠送余额扣除，自充 ¥5.14 未动；连同冒烟，v4 共约 ¥1.33，总上限 ¥3.00。预注册结果为负：hybrid 宏 F1 0.913、结论 74.1%、每样本 2.0 次请求；单 Agent 0.544、4.33 次；最强同预算基线关键词补证 1.000。T1、T2 未达成，T3–T5 达成，因此不做产品化。事后描述：入选的 3 个文字线索案例恰好都含关键词；关键词补证在完整 90 例封存集上为 0.848（零费用重跑）。已知小问题：一条模型失败的错误信息在报告中显示为乱码。详见 [ROOT_CAUSE_V4](ROOT_CAUSE_V4.md)；评测中心与 [root-cause-results.json](root-cause-results.json) 已更新。
+> 2026-10-22 00:26–00:48（北京时间，周四凌晨低谷）：按冻结计划完成 v4 封存运行（[#12](https://github.com/longtiandragon/ledgerlens/issues/12)）。运行前核对：服务器时间、`deepseek-flash`、两份计划 `--verify`、余额 ¥31.48，已关闭防回收。两批顺序执行，均未中断、未被守护终止。hybrid 批（含三种基线）54 次请求，守护估算 ¥0.414（上限 ¥0.85）；single 批 117 次，¥1.048（上限 ¥2.00）。运行后余额 ¥30.28：两批实际约 ¥1.20，全部从赠送余额扣除，自充 ¥5.14 未动；连同冒烟，v4 共约 ¥1.33，总上限 ¥3.00（2026-10-24 更正：00:49 的 ¥30.28 是扣费尚未全部入账时的读数；10-23 00:05 v5 预检读得 ¥30.16，其间没有其他付费运行，因此两批实际约 ¥1.32，连同冒烟 v4 共约 ¥1.45，仍低于总上限 ¥3.00，全部从赠送余额扣除。）预注册结果为负：hybrid 宏 F1 0.913、结论 74.1%、每样本 2.0 次请求；单 Agent 0.544、4.33 次；最强同预算基线关键词补证 1.000。T1、T2 未达成，T3–T5 达成，因此不做产品化。事后描述：入选的 3 个文字线索案例恰好都含关键词；关键词补证在完整 90 例封存集上为 0.848（零费用重跑）。已知小问题：一条模型失败的错误信息在报告中显示为乱码。详见 [ROOT_CAUSE_V4](ROOT_CAUSE_V4.md)；评测中心与 [root-cause-results.json](root-cause-results.json) 已更新。
 
 > 2026-10-20 21:2x：经用户最后确认，仓库转为公开。转公开前对全部可达历史只读审计：862 个对象，0 阻断，7 个复核项均为公开来源地址或测试占位地址（[报告](publication-audit.json)）。同时开启 Discussions（招募帖 #45）、私密漏洞报告和主题标签；main 分支保护要求 PR 与 8 项 CI 检查（含管理员），禁止强推与删除。未登录访问仓库、README、Issue #12 与讨论区均返回 200，CI 徽章显示 passing。提交元数据按用户决定保留学校邮箱。报名：用户已报名，尚未收到组委会确认邮件。
 

diff --git a/docs/submission/email.md b/docs/submission/email.md
@@ -1,0 +1,36 @@
+# 提交邮件草稿
+
+收件人：bjoscc@oschina.cn
+建议发送时间：2026-10-30（截止 2026-10-31 24:00）
+
+**主题**：【开源行业解决方案创新赛·赛道一】作品提交——账证智核 LedgerLens（{参赛单位}）
+
+各位老师好：
+
+我们提交“第四届开放原子大赛·2026 开源行业解决方案创新赛”赛道一（开源基础软件与解决方案）的参赛作品，材料如下：
+
+- 作品名称：账证智核 LedgerLens——证据优先的开源会计复核工作台
+- 参赛单位：{参赛单位全称}
+- 负责人：{姓名}，{手机}，{邮箱}
+- 团队成员：{姓名与分工；不超过 8 人}
+- 代码仓库（完整可运行代码，Apache-2.0）：https://github.com/longtiandragon/ledgerlens
+- 发布版本：v0.2.0（{Release 链接}）
+- 演示视频：{视频链接}（旁白为合成语音）
+- 作品介绍：见附件《账证智核-作品介绍.pdf》
+
+作品说明：面向代理记账与企业财务复核，导入账务与业务资料后固定快照，由确定性规则发现异常，调查只使用快照内证据，处理草稿在隔离副本中由程序复算，补证形成新快照并接续复核，复核冻结所依据方案与未决事项并导出可追溯底稿。首版三个场景包（资金往来、采购费用、期间账表）各按正常、确定异常、资料不足、冲突四种情况完成产品流程验收。模型调查为可选功能，三次预注册封存评测均未证明其优于确定性方法，结果原样公开。
+
+全部开发、测试与材料生成由 AI 编程助手完成；AI 模拟试用已标明，不是真人试用。
+
+如需补充材料，请告知。谢谢！
+
+{负责人姓名}
+{日期}
+
+---
+
+发送前核对：
+
+1. 附件 PDF 能打开，第一页的仓库与视频链接可点击。
+2. 在未登录的浏览器（无痕窗口）中分别打开仓库、Release 和视频链接。
+3. 组委会确认邮件中如有其他格式要求（文件命名、报名编号等），按其要求调整。

diff --git a/docs/submission/README.md b/docs/submission/README.md
@@ -7,6 +7,8 @@
 |作品介绍 PDF|`intro.template.html`、`meta.json`|`python scripts/build_submission_pdf.py --output .local/submission/账证智核-作品介绍.pdf`|
 |截图|`docs/images/*.png`|`python scripts/capture_demo.py --output .local/demo/shots`，人工挑选后复制到 `docs/images/`|
 |演示录像|`frontend/tests/demo-capture.spec.ts`|`python scripts/capture_demo.py --output .local/demo/video --video`，再配旁白与字幕|
+|版本验证摘要|`docs/release-v0.2.0-validation.json`|在发布提交上运行后端（JUnit）、浏览器（Playwright JSON）与场景包验收后，`python scripts/summarize_release.py ...` 汇总|
+|提交邮件草稿|`email.md`|发送前按组委会确认邮件的要求补齐单位、负责人与视频链接|
 
 规则：
 
